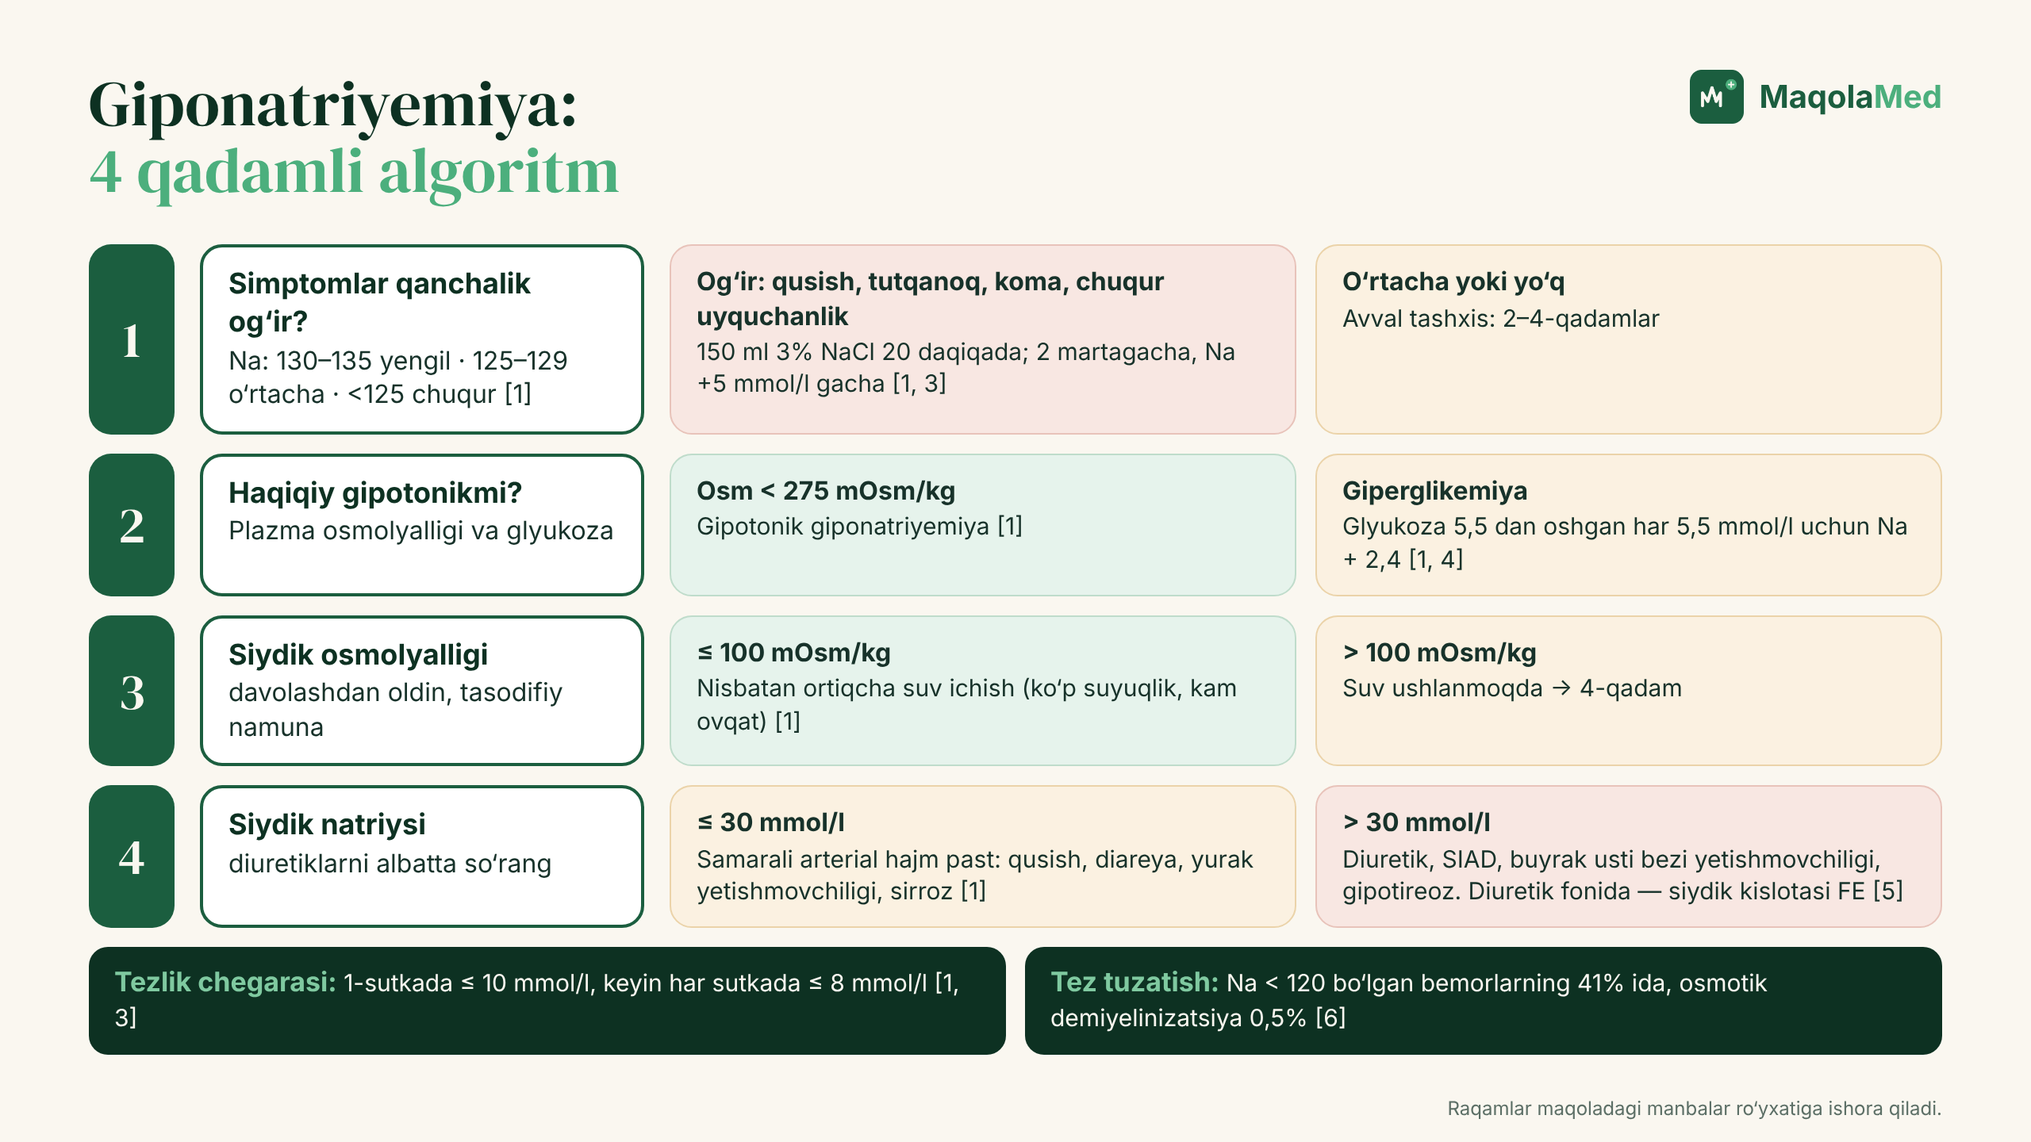
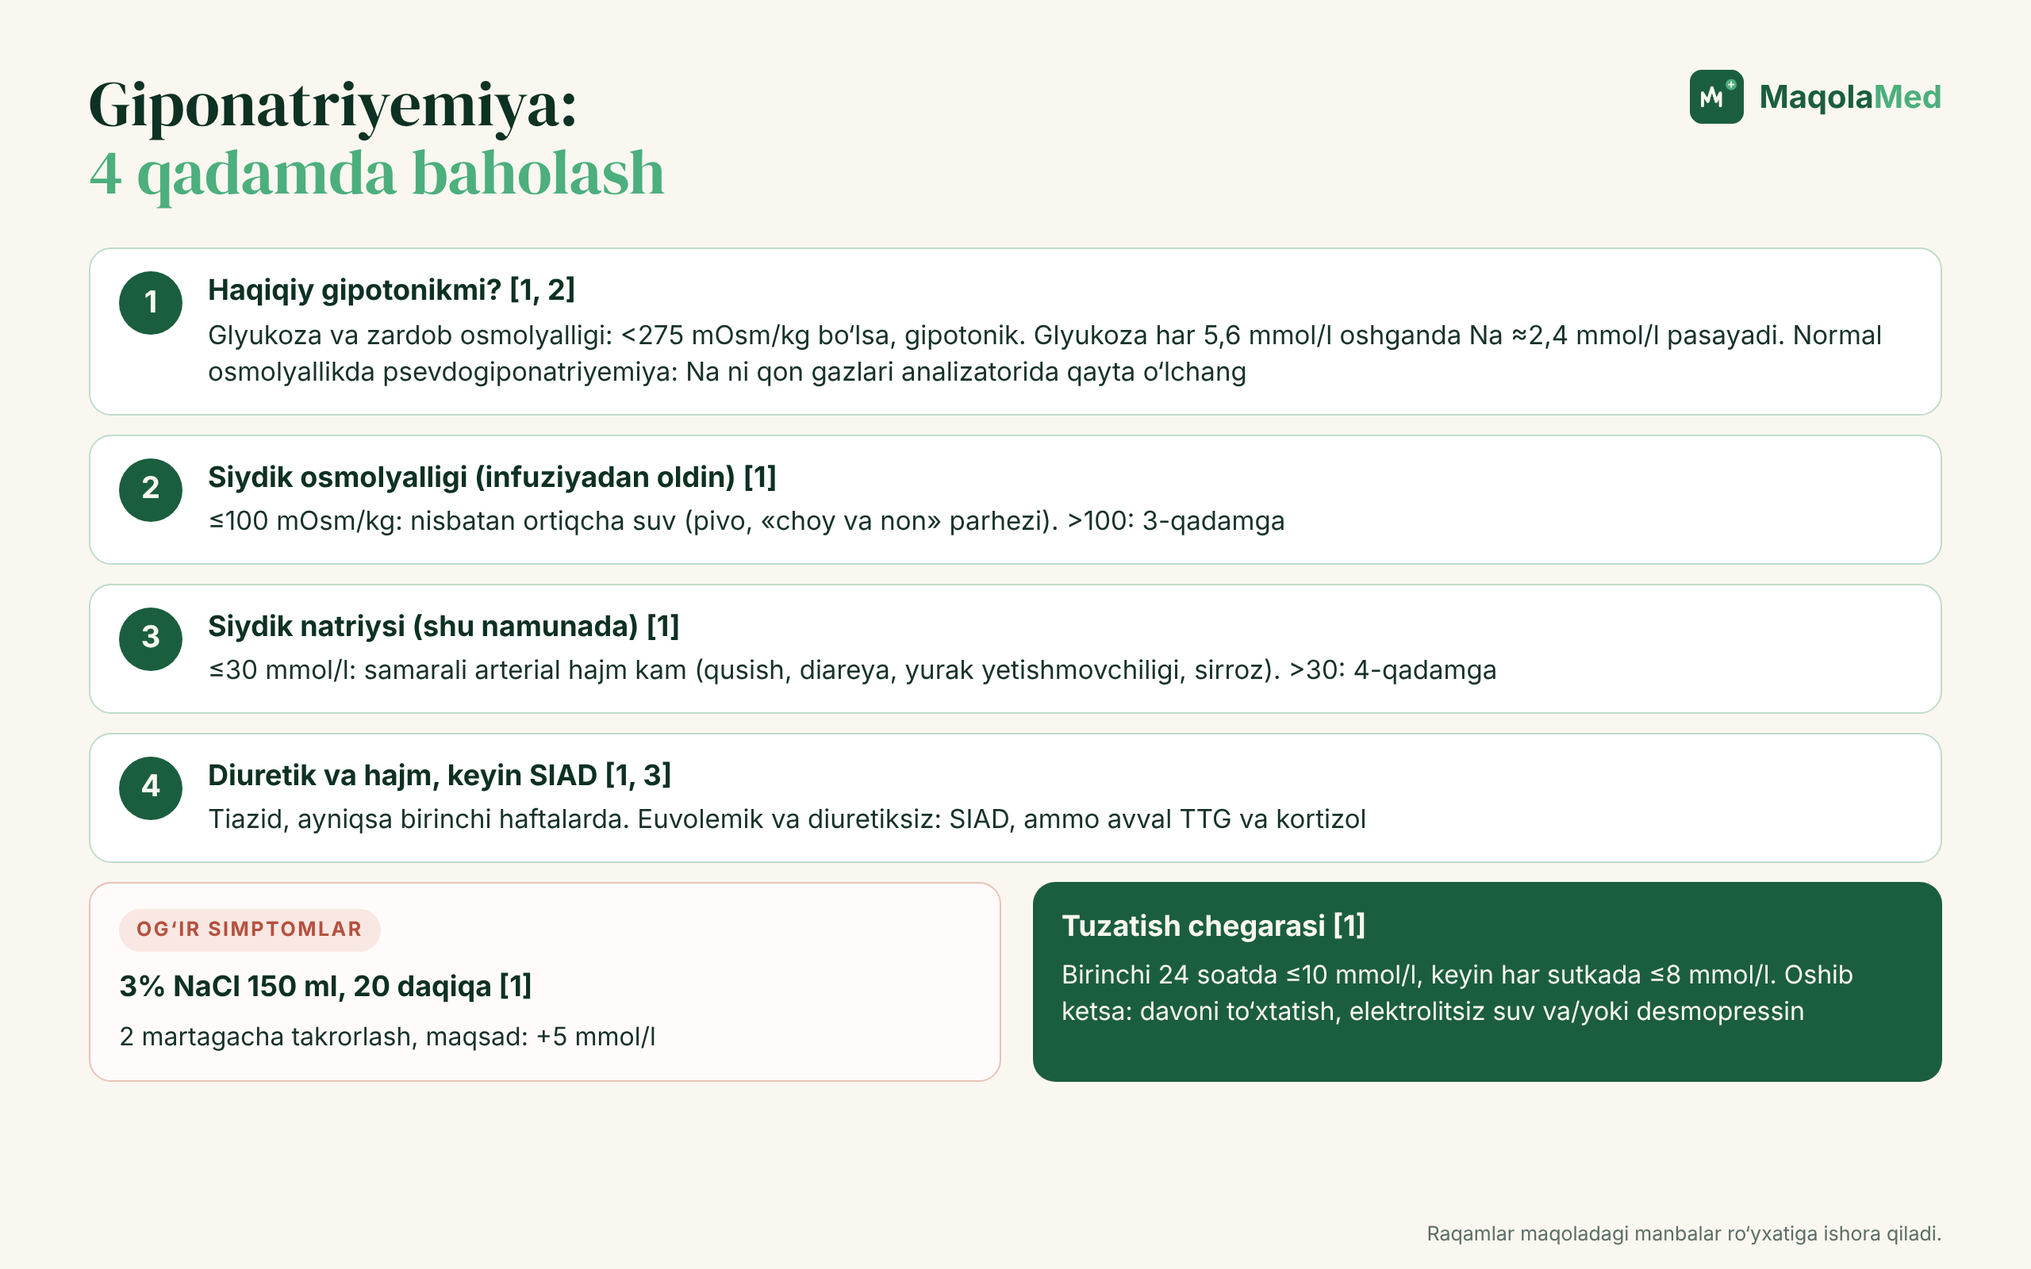
4-dekabr maqolasi qayta yozildi (v2, humanizer): giponatriyemiya — muqovalar, 1 rasm

diff --git a/_manba/2026-12-04/muqova-instagram-4x5.html b/_manba/2026-12-04/muqova-instagram-4x5.html
@@ -1,0 +1,85 @@
+<!doctype html>
+<html lang="uz">
+<head>
+<meta charset="utf-8"><base href="file:///home/claude/maqolamed-rasmlar/_shablon/">
+<style>
+@font-face{font-family:"DM Serif Display";src:url("fonts/dm-serif-display-latin-400-normal.woff2") format("woff2");}
+@font-face{font-family:"DM Serif Display";src:url("fonts/dm-serif-display-latin-ext-400-normal.woff2") format("woff2");unicode-range:U+0100-024F,U+1E00-1EFF;}
+:root{
+  --emerald:#1B5E3F; --deep:#0D3122; --cream:#FAF7F0; --mint:#7FC9A0; --green:#4CAF7D;
+}
+*{margin:0;padding:0;box-sizing:border-box}
+html,body{width:1280px;height:720px;overflow:hidden;background:var(--deep)}
+.cover{position:relative;width:1280px;height:720px;overflow:hidden;font-family:"Inter",sans-serif;color:var(--cream);
+  background:
+    radial-gradient(900px 600px at 78% 40%, rgba(76,175,125,.22), transparent 60%),
+    radial-gradient(700px 500px at 0% 100%, rgba(13,49,34,.9), transparent 70%),
+    linear-gradient(135deg,#123F2C 0%, #1B5E3F 55%, #164D34 100%);}
+.grid{position:absolute;inset:0;background-image:
+    linear-gradient(rgba(250,247,240,.035) 1px,transparent 1px),
+    linear-gradient(90deg,rgba(250,247,240,.035) 1px,transparent 1px);
+  background-size:40px 40px;}
+.ekg{position:absolute;left:0;top:300px;width:1280px;height:200px;opacity:.16}
+.left{position:absolute;left:64px;top:52px;width:690px}
+.brand{display:flex;align-items:center;gap:28px}
+.brand img{height:62px;display:block}
+.tag{display:flex;align-items:center;gap:14px;font-size:13px;letter-spacing:.32em;color:rgba(250,247,240,.72);font-weight:500}
+.tag i{width:4px;height:4px;border-radius:50%;background:var(--mint);display:inline-block}
+.tag .line{width:90px;height:1px;background:rgba(250,247,240,.35)}
+.kicker{margin-top:54px;display:inline-flex;align-items:center;gap:10px;font-size:15px;font-weight:600;letter-spacing:.14em;text-transform:uppercase;color:var(--mint)}
+.kicker span{display:inline-block;width:28px;height:2px;background:var(--mint)}
+h1{margin-top:16px;font-family:"DM Serif Display",serif;font-weight:400;font-size:78px;line-height:.98;letter-spacing:-.01em;color:var(--cream)}
+h1 em{font-style:normal;color:var(--mint)}
+.sub{margin-top:22px;font-size:21px;color:rgba(250,247,240,.82);font-weight:400}
+.points{position:absolute;left:64px;bottom:50px;display:flex;gap:0}
+.pt{width:172px;padding-right:18px;display:flex;flex-direction:column;align-items:flex-start;gap:12px}
+.pt + .pt{padding-left:22px;border-left:1px solid rgba(250,247,240,.18)}
+.ic{width:52px;height:52px;border-radius:50%;border:1.6px solid rgba(250,247,240,.75);display:grid;place-items:center}
+.ic svg{width:26px;height:26px;stroke:var(--cream);fill:none;stroke-width:1.7;stroke-linecap:round;stroke-linejoin:round}
+.pt p{font-size:15px;line-height:1.3;color:rgba(250,247,240,.92);font-weight:500}
+.card{position:absolute;right:56px;top:96px;width:400px;border-radius:22px;padding:28px 30px 26px;
+  background:linear-gradient(160deg,rgba(13,49,34,.82),rgba(13,49,34,.62));
+  border:1px solid rgba(127,201,160,.35);box-shadow:0 30px 60px rgba(0,0,0,.35)}
+.card .ch{display:flex;justify-content:space-between;align-items:center}
+.card .lbl{font-size:12px;letter-spacing:.24em;font-weight:600;color:var(--mint)}
+.card .pill{font-size:12px;font-weight:600;padding:5px 10px;border-radius:999px;background:rgba(127,201,160,.16);color:var(--mint)}
+.card h3{margin-top:14px;font-size:22px;font-weight:600}
+.card h3 small{display:block;margin-top:4px;font-size:14px;font-weight:400;color:rgba(250,247,240,.65)}
+.rows{margin-top:18px;border-top:1px solid rgba(250,247,240,.14)}
+.row{display:flex;justify-content:space-between;padding:9px 0;border-bottom:1px solid rgba(250,247,240,.10);font-size:16px}
+.row span:first-child{color:rgba(250,247,240,.68)}
+.row span:last-child{font-weight:600;font-variant-numeric:tabular-nums}
+.row .ok{color:var(--mint)}
+.quote{margin-top:18px;font-family:"DM Serif Display",serif;font-size:21px;line-height:1.25;color:var(--cream)}
+.ask{margin-top:16px;display:flex;align-items:center;justify-content:space-between;padding:13px 16px;border-radius:12px;background:var(--green);color:#0D3122;font-weight:700;font-size:17px}
+.ask svg{width:22px;height:22px;stroke:#0D3122;fill:none;stroke-width:2.2;stroke-linecap:round;stroke-linejoin:round}
+
+html,body{width:1080px;height:1350px}
+.cover{width:1080px;height:1350px}
+.ekg{top:525px;width:1080px}
+.left{left:72px;top:64px;width:940px}
+.brand img{height:72px}
+h1{font-size:96px;margin-top:18px}
+.kicker{margin-top:56px;font-size:17px}
+.sub{font-size:24px}
+.card{left:72px;right:72px;top:auto;bottom:250px;width:auto;padding:30px 34px}
+.rows{display:grid;grid-template-columns:1fr 1fr;column-gap:40px}
+.quote{font-size:24px}
+.points{left:72px;right:72px;bottom:60px}
+.pt{width:auto;flex:1}
+.pt p{font-size:17px}
+
+
+</style>
+</head>
+<body><div class="cover"><div class="grid"></div>
+<svg class="ekg" viewBox="0 0 1280 200" preserveAspectRatio="none"><polyline fill="none" stroke="#7FC9A0" stroke-width="3" stroke-linejoin="round" stroke-linecap="round" points="0,120 640,120 670,120 690,98 710,120 750,120 770,40 795,175 820,120 880,120 905,102 930,120 1280,120"/></svg>
+<div class="left"><div class="brand"><img src="logo_dark_bg.png" alt="MaqolaMed"></div>
+<div class="tag" style="margin-top:22px"><span>ILM</span><i></i><span>AMALIYOT</span><i></i><span>ODAM UCHUN</span><span class="line"></span></div>
+<div class="kicker"><span></span>Tahlil o‘qish · Nefrologiya</div>
+<h1>Giponatriyemiya:<br>tahlilni<br><em>4 qadamda o‘qiymiz</em></h1>
+<div class="sub">Eritma tanlashdan oldin: osmolyallik, siydik va dorilar.</div></div>
+<div class="points"><div class="pt"><div class="ic"><svg viewBox="0 0 24 24"><path d="M9 3h6"/><path d="M10 3v12.5a2 2 0 0 0 4 0V3"/><path d="M10 10h4"/><path d="M5 21h14"/></svg></div><p>Qaysi tahlil birinchi?</p></div><div class="pt"><div class="ic"><svg viewBox="0 0 24 24"><path d="M12 3c3 4 6 7.5 6 11a6 6 0 0 1-12 0c0-3.5 3-7 6-11z"/></svg></div><p>Siydik nimani aytadi?</p></div><div class="pt"><div class="ic"><svg viewBox="0 0 24 24"><rect x="3" y="8.5" width="18" height="7" rx="3.5" transform="rotate(-40 12 12)"/><path d="M9.3 9.3l5.4 5.4"/></svg></div><p>Tiazid qanchalik xavfli?</p></div><div class="pt"><div class="ic"><svg viewBox="0 0 24 24"><circle cx="12" cy="12" r="9"/><path d="M12 7v5l3 2"/></svg></div><p>Natriyni qanchalik tez ko‘taramiz?</p></div></div>
+<div class="card"><div class="ch"><span class="lbl">TAHLIL O‘QISH</span><span class="pill">Na 121</span></div>
+<h3>Asosiy chegaralar<small>Yevropa tavsiyanomasi, 2014</small></h3><div class="rows"><div class="row"><span>Zardob osmolyalligi</span><span class="">&lt;275 mOsm/kg</span></div><div class="row"><span>Siydik osmolyalligi</span><span class="">100 mOsm/kg</span></div><div class="row"><span>Siydik natriysi</span><span class="">30 mmol/l</span></div><div class="row"><span>Tiazid, birinchi hafta</span><span class="">OR 48</span></div><div class="row"><span>Birinchi 24 soatda o‘sish</span><span class="ok">≤10 mmol/l</span></div><div class="row"><span>Keyingi har sutkada</span><span class="ok">≤8 mmol/l</span></div></div><div class="quote">«Fiziologik eritma qo‘yaymi?»</div><div class="ask">Siz nima qilardingiz?<svg viewBox="0 0 24 24"><path d="M5 12h14"/><path d="M13 6l6 6-6 6"/></svg></div></div>
+</div></body></html>

diff --git a/_manba/2026-12-04/muqova-16x9.html b/_manba/2026-12-04/muqova-16x9.html
@@ -1,0 +1,70 @@
+<!doctype html>
+<html lang="uz">
+<head>
+<meta charset="utf-8"><base href="file:///home/claude/maqolamed-rasmlar/_shablon/">
+<style>
+@font-face{font-family:"DM Serif Display";src:url("fonts/dm-serif-display-latin-400-normal.woff2") format("woff2");}
+@font-face{font-family:"DM Serif Display";src:url("fonts/dm-serif-display-latin-ext-400-normal.woff2") format("woff2");unicode-range:U+0100-024F,U+1E00-1EFF;}
+:root{
+  --emerald:#1B5E3F; --deep:#0D3122; --cream:#FAF7F0; --mint:#7FC9A0; --green:#4CAF7D;
+}
+*{margin:0;padding:0;box-sizing:border-box}
+html,body{width:1280px;height:720px;overflow:hidden;background:var(--deep)}
+.cover{position:relative;width:1280px;height:720px;overflow:hidden;font-family:"Inter",sans-serif;color:var(--cream);
+  background:
+    radial-gradient(900px 600px at 78% 40%, rgba(76,175,125,.22), transparent 60%),
+    radial-gradient(700px 500px at 0% 100%, rgba(13,49,34,.9), transparent 70%),
+    linear-gradient(135deg,#123F2C 0%, #1B5E3F 55%, #164D34 100%);}
+.grid{position:absolute;inset:0;background-image:
+    linear-gradient(rgba(250,247,240,.035) 1px,transparent 1px),
+    linear-gradient(90deg,rgba(250,247,240,.035) 1px,transparent 1px);
+  background-size:40px 40px;}
+.ekg{position:absolute;left:0;top:300px;width:1280px;height:200px;opacity:.16}
+.left{position:absolute;left:64px;top:52px;width:690px}
+.brand{display:flex;align-items:center;gap:28px}
+.brand img{height:62px;display:block}
+.tag{display:flex;align-items:center;gap:14px;font-size:13px;letter-spacing:.32em;color:rgba(250,247,240,.72);font-weight:500}
+.tag i{width:4px;height:4px;border-radius:50%;background:var(--mint);display:inline-block}
+.tag .line{width:90px;height:1px;background:rgba(250,247,240,.35)}
+.kicker{margin-top:54px;display:inline-flex;align-items:center;gap:10px;font-size:15px;font-weight:600;letter-spacing:.14em;text-transform:uppercase;color:var(--mint)}
+.kicker span{display:inline-block;width:28px;height:2px;background:var(--mint)}
+h1{margin-top:16px;font-family:"DM Serif Display",serif;font-weight:400;font-size:78px;line-height:.98;letter-spacing:-.01em;color:var(--cream)}
+h1 em{font-style:normal;color:var(--mint)}
+.sub{margin-top:22px;font-size:21px;color:rgba(250,247,240,.82);font-weight:400}
+.points{position:absolute;left:64px;bottom:50px;display:flex;gap:0}
+.pt{width:172px;padding-right:18px;display:flex;flex-direction:column;align-items:flex-start;gap:12px}
+.pt + .pt{padding-left:22px;border-left:1px solid rgba(250,247,240,.18)}
+.ic{width:52px;height:52px;border-radius:50%;border:1.6px solid rgba(250,247,240,.75);display:grid;place-items:center}
+.ic svg{width:26px;height:26px;stroke:var(--cream);fill:none;stroke-width:1.7;stroke-linecap:round;stroke-linejoin:round}
+.pt p{font-size:15px;line-height:1.3;color:rgba(250,247,240,.92);font-weight:500}
+.card{position:absolute;right:56px;top:96px;width:400px;border-radius:22px;padding:28px 30px 26px;
+  background:linear-gradient(160deg,rgba(13,49,34,.82),rgba(13,49,34,.62));
+  border:1px solid rgba(127,201,160,.35);box-shadow:0 30px 60px rgba(0,0,0,.35)}
+.card .ch{display:flex;justify-content:space-between;align-items:center}
+.card .lbl{font-size:12px;letter-spacing:.24em;font-weight:600;color:var(--mint)}
+.card .pill{font-size:12px;font-weight:600;padding:5px 10px;border-radius:999px;background:rgba(127,201,160,.16);color:var(--mint)}
+.card h3{margin-top:14px;font-size:22px;font-weight:600}
+.card h3 small{display:block;margin-top:4px;font-size:14px;font-weight:400;color:rgba(250,247,240,.65)}
+.rows{margin-top:18px;border-top:1px solid rgba(250,247,240,.14)}
+.row{display:flex;justify-content:space-between;padding:9px 0;border-bottom:1px solid rgba(250,247,240,.10);font-size:16px}
+.row span:first-child{color:rgba(250,247,240,.68)}
+.row span:last-child{font-weight:600;font-variant-numeric:tabular-nums}
+.row .ok{color:var(--mint)}
+.quote{margin-top:18px;font-family:"DM Serif Display",serif;font-size:21px;line-height:1.25;color:var(--cream)}
+.ask{margin-top:16px;display:flex;align-items:center;justify-content:space-between;padding:13px 16px;border-radius:12px;background:var(--green);color:#0D3122;font-weight:700;font-size:17px}
+.ask svg{width:22px;height:22px;stroke:#0D3122;fill:none;stroke-width:2.2;stroke-linecap:round;stroke-linejoin:round}
+
+
+</style>
+</head>
+<body><div class="cover"><div class="grid"></div>
+<svg class="ekg" viewBox="0 0 1280 200" preserveAspectRatio="none"><polyline fill="none" stroke="#7FC9A0" stroke-width="3" stroke-linejoin="round" stroke-linecap="round" points="0,120 640,120 670,120 690,98 710,120 750,120 770,40 795,175 820,120 880,120 905,102 930,120 1280,120"/></svg>
+<div class="left"><div class="brand"><img src="logo_dark_bg.png" alt="MaqolaMed"></div>
+<div class="tag" style="margin-top:22px"><span>ILM</span><i></i><span>AMALIYOT</span><i></i><span>ODAM UCHUN</span><span class="line"></span></div>
+<div class="kicker"><span></span>Tahlil o‘qish · Nefrologiya</div>
+<h1>Giponatriyemiya:<br>tahlilni<br><em>4 qadamda o‘qiymiz</em></h1>
+<div class="sub">Eritma tanlashdan oldin: osmolyallik, siydik va dorilar.</div></div>
+<div class="points"><div class="pt"><div class="ic"><svg viewBox="0 0 24 24"><path d="M9 3h6"/><path d="M10 3v12.5a2 2 0 0 0 4 0V3"/><path d="M10 10h4"/><path d="M5 21h14"/></svg></div><p>Qaysi tahlil birinchi?</p></div><div class="pt"><div class="ic"><svg viewBox="0 0 24 24"><path d="M12 3c3 4 6 7.5 6 11a6 6 0 0 1-12 0c0-3.5 3-7 6-11z"/></svg></div><p>Siydik nimani aytadi?</p></div><div class="pt"><div class="ic"><svg viewBox="0 0 24 24"><rect x="3" y="8.5" width="18" height="7" rx="3.5" transform="rotate(-40 12 12)"/><path d="M9.3 9.3l5.4 5.4"/></svg></div><p>Tiazid qanchalik xavfli?</p></div><div class="pt"><div class="ic"><svg viewBox="0 0 24 24"><circle cx="12" cy="12" r="9"/><path d="M12 7v5l3 2"/></svg></div><p>Natriyni qanchalik tez ko‘taramiz?</p></div></div>
+<div class="card"><div class="ch"><span class="lbl">TAHLIL O‘QISH</span><span class="pill">Na 121</span></div>
+<h3>Asosiy chegaralar<small>Yevropa tavsiyanomasi, 2014</small></h3><div class="rows"><div class="row"><span>Zardob osmolyalligi</span><span class="">&lt;275 mOsm/kg</span></div><div class="row"><span>Siydik osmolyalligi</span><span class="">100 mOsm/kg</span></div><div class="row"><span>Siydik natriysi</span><span class="">30 mmol/l</span></div><div class="row"><span>Tiazid, birinchi hafta</span><span class="">OR 48</span></div><div class="row"><span>Birinchi 24 soatda o‘sish</span><span class="ok">≤10 mmol/l</span></div><div class="row"><span>Keyingi har sutkada</span><span class="ok">≤8 mmol/l</span></div></div><div class="quote">«Fiziologik eritma qo‘yaymi?»</div><div class="ask">Siz nima qilardingiz?<svg viewBox="0 0 24 24"><path d="M5 12h14"/><path d="M13 6l6 6-6 6"/></svg></div></div>
+</div></body></html>

diff --git a/_manba/2026-12-04/1-rasm.html b/_manba/2026-12-04/1-rasm.html
@@ -1,0 +1,45 @@
+<!doctype html><html lang="uz"><head><meta charset="utf-8"><base href="file:///home/claude/maqolamed-rasmlar/_shablon/"><style>
+@font-face{font-family:"DM Serif Display";src:url("fonts/dm-serif-display-latin-400-normal.woff2") format("woff2");}
+@font-face{font-family:"DM Serif Display";src:url("fonts/dm-serif-display-latin-ext-400-normal.woff2") format("woff2");unicode-range:U+0100-024F,U+1E00-1EFF;}
+:root{--emerald:#1B5E3F;--deep:#0D3122;--cream:#FAF7F0;--mint:#7FC9A0;--green:#4CAF7D;--ink:#17322A;--muted:#5C6F66;--amber:#C98A2E;--amberbg:#FBF1E1;--red:#B5513F;--redbg:#F8E7E2}
+*{margin:0;padding:0;box-sizing:border-box}
+html,body{width:1280px;height:800px;background:var(--cream);overflow:hidden}
+.fig{position:relative;width:1280px;height:800px;padding:44px 56px;font-family:"Inter",sans-serif;color:var(--ink)}
+.top{display:flex;justify-content:space-between;align-items:flex-start;margin-bottom:26px}
+h1{font-family:"DM Serif Display",serif;font-weight:400;font-size:40px;line-height:1.08;color:var(--deep)}
+h1 em{font-style:normal;color:var(--green)}
+.brand{display:flex;align-items:center;gap:10px;font-weight:700;font-size:20px;color:var(--emerald);white-space:nowrap}
+.brand img{height:34px}.brand b{color:var(--green);font-weight:700}
+table{width:100%;border-collapse:separate;border-spacing:0;font-size:17px;line-height:1.35;background:#fff;border-radius:14px;overflow:hidden;border:1.5px solid #BFDCCB}
+th{background:var(--emerald);color:var(--cream);text-align:left;padding:13px 16px;font-size:16px;font-weight:600}
+td{padding:12px 16px;border-top:1px solid #E3EDE7;vertical-align:top}
+td:first-child{font-weight:600;color:var(--deep);width:24%}
+tr:nth-child(even) td{background:#F6FAF7}
+.good{color:var(--emerald);font-weight:600}.bad{color:var(--red);font-weight:600}.mid{color:#8A5A14;font-weight:600}
+.row3{display:flex;gap:20px}
+.box{flex:1;border-radius:14px;padding:16px 18px;font-size:16px;line-height:1.42;background:#fff;border:1.5px solid #BFDCCB}
+.box b.t{display:block;font-size:18px;margin-bottom:6px;color:var(--deep)}
+.box.g{border-color:#BFDCCB}.box.a{border-color:#EBD3A9;background:#FFFDF8}.box.r{border-color:#E8C3BA;background:#FFFBFA}
+.box.dark{background:var(--emerald);color:var(--cream);border:none}.box.dark b.t{color:var(--cream)}
+.step{display:flex;gap:16px;align-items:flex-start;background:#fff;border:1.5px solid #BFDCCB;border-radius:14px;padding:14px 18px;margin-bottom:12px;font-size:16.5px;line-height:1.42}
+.num{flex:none;width:40px;height:40px;border-radius:50%;background:var(--emerald);color:var(--cream);display:grid;place-items:center;font-weight:700;font-size:19px}
+.step b.t{display:block;font-size:18px;color:var(--deep);margin-bottom:3px}
+.tag{display:inline-block;font-size:12.5px;font-weight:700;letter-spacing:.1em;text-transform:uppercase;padding:5px 11px;border-radius:999px;margin-bottom:10px}
+.tg{background:#DDEFE5;color:var(--emerald)}.ta{background:var(--amberbg);color:#8A5A14}.tr{background:var(--redbg);color:var(--red)}
+.note{margin-top:18px;padding:14px 18px;border-radius:12px;background:#EEF2EE;font-size:15.5px;line-height:1.42}
+.note b{color:var(--deep)}
+.src{position:absolute;right:56px;bottom:14px;font-size:12.5px;color:var(--muted)}
+ul.l{margin:6px 0 0 18px}ul.l li{margin:3px 0}
+</style>
+<style>.arrow{font-size:15px;color:var(--muted);margin:-4px 0 8px 58px}</style>
+</head><body><div class="fig">
+<div class="top"><h1>Giponatriyemiya:<br><em>4 qadamda baholash</em></h1><div class="brand"><img src="icon.png" alt=""><span>Maqola<b>Med</b></span></div></div>
+<div class="step"><div class="num">1</div><div><b class="t">Haqiqiy gipotonikmi? [1, 2]</b>Glyukoza va zardob osmolyalligi: &lt;275 mOsm/kg bo‘lsa, gipotonik. Glyukoza har 5,6 mmol/l oshganda Na ≈2,4 mmol/l pasayadi. Normal osmolyallikda psevdogiponatriyemiya: Na ni qon gazlari analizatorida qayta o‘lchang</div></div>
+<div class="step"><div class="num">2</div><div><b class="t">Siydik osmolyalligi (infuziyadan oldin) [1]</b>≤100 mOsm/kg: nisbatan ortiqcha suv (pivo, «choy va non» parhezi). &gt;100: 3-qadamga</div></div>
+<div class="step"><div class="num">3</div><div><b class="t">Siydik natriysi (shu namunada) [1]</b>≤30 mmol/l: samarali arterial hajm kam (qusish, diareya, yurak yetishmovchiligi, sirroz). &gt;30: 4-qadamga</div></div>
+<div class="step"><div class="num">4</div><div><b class="t">Diuretik va hajm, keyin SIAD [1, 3]</b>Tiazid, ayniqsa birinchi haftalarda. Euvolemik va diuretiksiz: SIAD, ammo avval TTG va kortizol</div></div>
+<div class="row3" style="margin-top:6px">
+<div class="box r"><span class="tag tr">Og‘ir simptomlar</span><b class="t">3% NaCl 150 ml, 20 daqiqa [1]</b>2 martagacha takrorlash, maqsad: +5 mmol/l</div>
+<div class="box dark"><b class="t">Tuzatish chegarasi [1]</b>Birinchi 24 soatda ≤10 mmol/l, keyin har sutkada ≤8 mmol/l. Oshib ketsa: davoni to‘xtatish, elektrolitsiz suv va/yoki desmopressin</div>
+</div>
+<div class="src">Raqamlar maqoladagi manbalar ro‘yxatiga ishora qiladi.</div></div></body></html>
